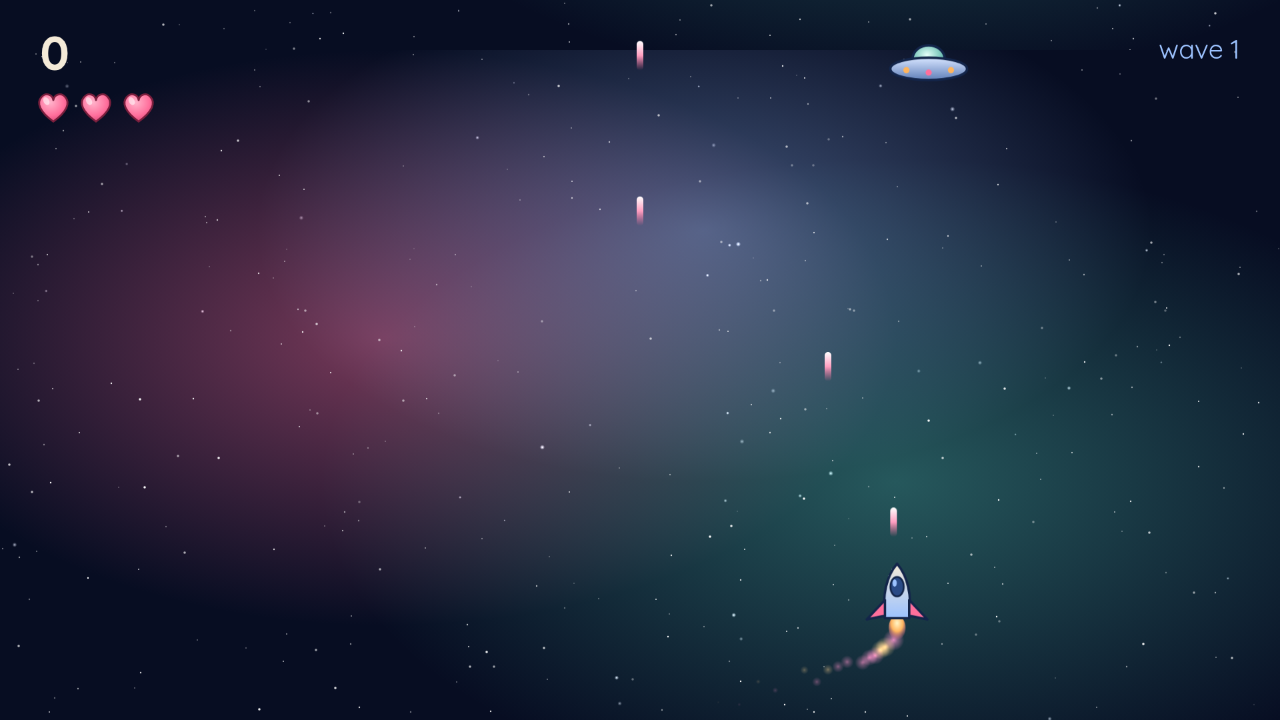
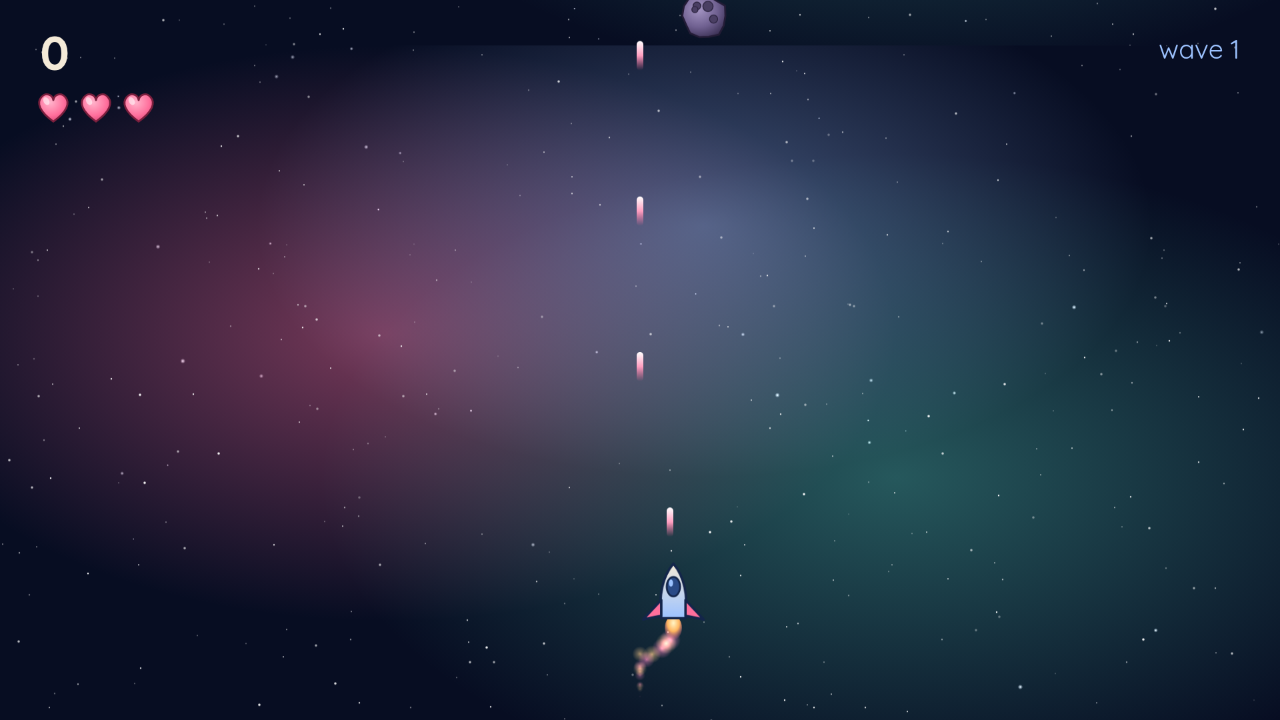
Publish space-shooting-game-3f76 (requested by @MathUnlockedYT)

diff --git a/games/space-shooting-game-3f76/index.html b/games/space-shooting-game-3f76/index.html
@@ -173,12 +173,21 @@ class Play extends Phaser.Scene {
       this.spawnTimer = Math.max(0.25, SETTINGS.spawnEvery - this.wave * 0.05);
     }
 
-    for (const shot of this.shots) { shot.y -= 1400 * dt; }
+    for (const shot of this.shots) { 
+      shot.y -= 1400 * dt; 
+    }
+
     for (const e of this.enemies) {
       e.sprite.y += e.vy * dt;
       if (!e.dead && Phaser.Math.Distance.Between(e.sprite.x, e.sprite.y, this.player.x, this.player.y) < e.r + 40) {
         this.hit(e); this.playerHit();
       }
+      // Collision avoidance for meteors
+      this.shots.forEach(shot => {
+        if (!e.dead && Phaser.Math.Distance.Between(shot.x, shot.y, e.sprite.x, e.sprite.y) < 40) {
+          shot.destroy(); // remove shot if it hits the meteor
+        }
+      });
     }
 
     this.shots = this.shots.filter((s) => s.y > -60);
